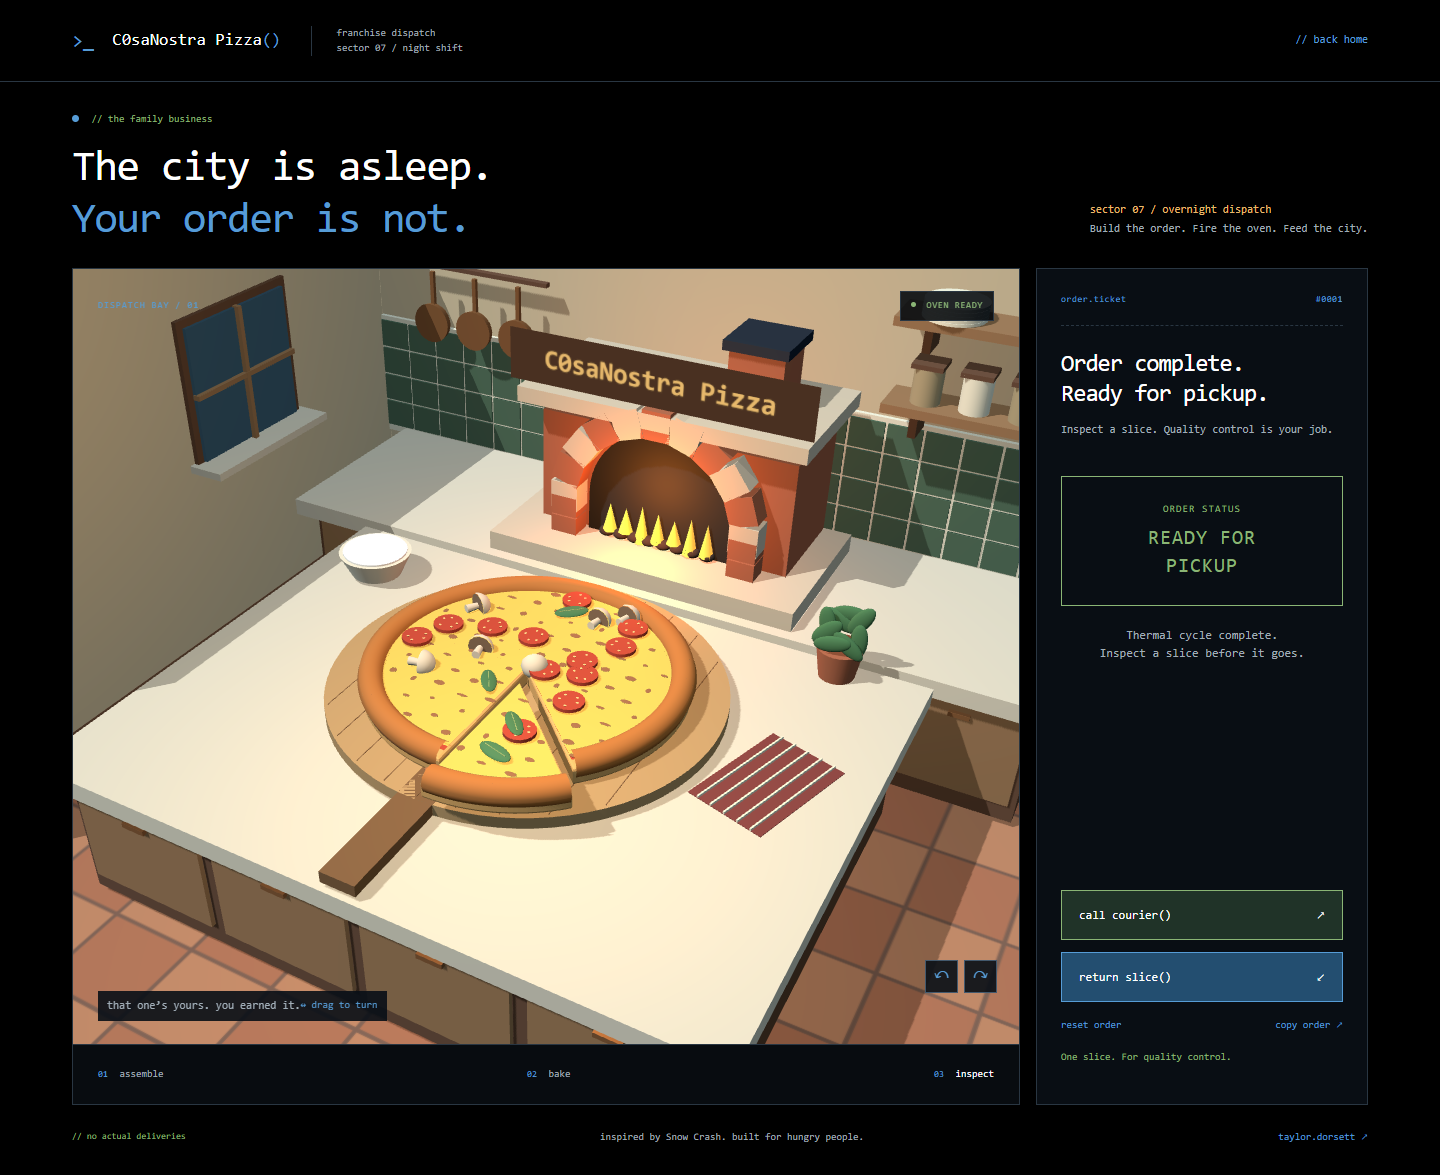
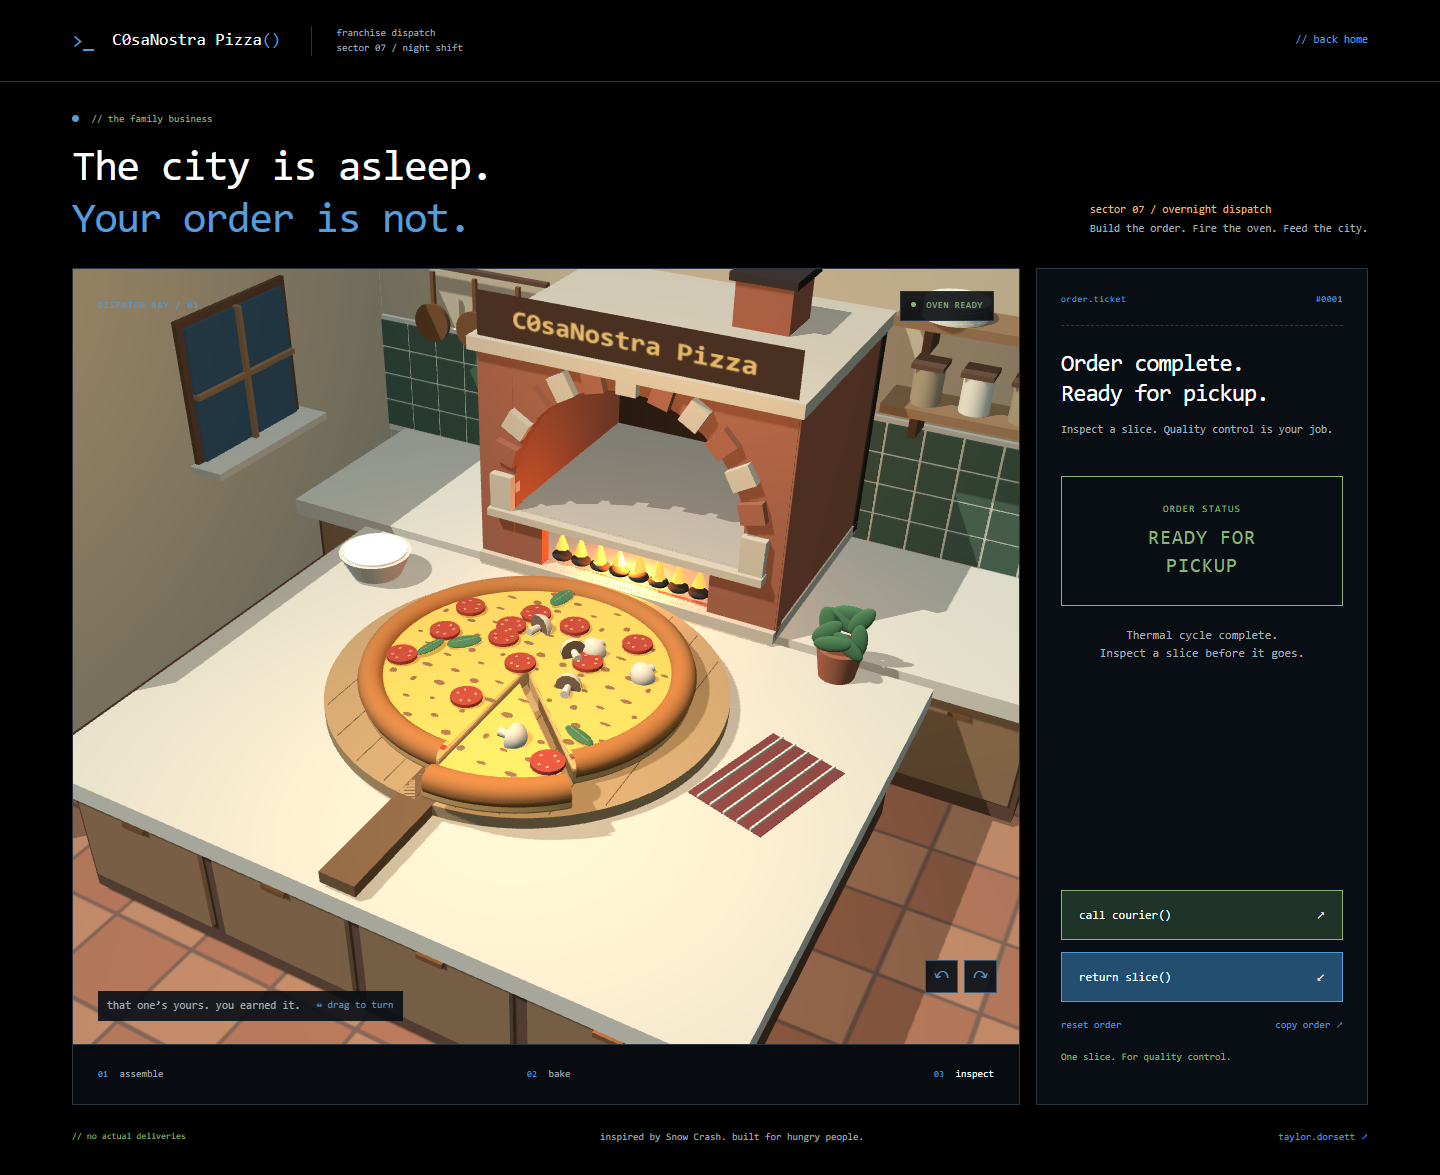
keep the pizza above the fire

Changed region(s): [[0.25, 0.2145, 0.6875, 0.674], [0.25, 0.8272, 0.2812, 0.8885]]

diff --git a/kitchen.js b/kitchen.js
@@ -1,6 +1,8 @@
 import * as THREE from './vendor/three.module.js';
 import { createGeometry } from './geometry.js';
 import { createKitchenRoom } from './kitchen-room.js';
+import { createPizzaOven } from './pizza-oven.js';
+import { ovenLayout } from './oven-motion.js';
 export function createKitchen(scene) {
   const root = new THREE.Group();
   scene.add(root);
@@ -27,13 +29,8 @@ export function createKitchen(scene) {
     sausage: material('#815335'),
     chicken: material('#e4be83'),
     brick: material('#a85e3d'),
-    grout: material('#cfb997'),
-    oven: material('#17222d'),
-    black: material('#201f19'),
-    coal: material('#382a21'),
     char: material('#96603a'),
     cream: material('#e9d8b4'),
-    metal: material('#79796b', { metalness: 0.3 }),
     towel: material('#7d3730')
   };
   const rimLight = new THREE.PointLight('#569cd6', 35, 16, 2);
@@ -41,68 +38,7 @@ export function createKitchen(scene) {
   scene.add(rimLight);
   rimLight.visible = false;
 
-  // The brick oven is made from individual blocks around an arched opening.
-  const oven = new THREE.Group();
-  oven.position.set(0, 0, -4.5);
-  root.add(oven);
-  box(5, 0.3, 2.65, mats.grout, oven, 0, -0.1, 0);
-  box(4.1, 2, 1.7, mats.brick, oven, 0, 0.85, -0.45);
-  const arch = new THREE.Shape();
-  arch.moveTo(-1.2, 0);
-  arch.lineTo(1.2, 0);
-  arch.lineTo(1.2, 0.65);
-  arch.absarc(0, 0.65, 1.2, 0, Math.PI, false);
-  arch.lineTo(-1.2, 0);
-  const dark = mesh(new THREE.ShapeGeometry(arch), mats.black, oven);
-  dark.position.set(0, 0.03, 0.46);
-  for (let i = 0; i < 11; i++) {
-    const a = (i / 10) * Math.PI;
-    const b = box(
-      0.45,
-      0.45,
-      0.35,
-      i % 2 ? mats.brick : mats.grout,
-      oven,
-      Math.cos(a) * 1.47,
-      0.68 + Math.sin(a) * 1.47,
-      0.62
-    );
-    b.rotation.z = a;
-  }
-  for (const x of [-1.47, 1.47])
-    for (let j = 0; j < 2; j++) box(0.43, 0.32, 0.36, mats.brick, oven, x, 0.17 + j * 0.34, 0.62);
-  box(4.55, 0.24, 2.3, mats.grout, oven, 0, 2.2, -0.35);
-  box(0.85, 0.85, 0.8, mats.brick, oven, 1.05, 2.7, -0.65);
-  box(1, 0.15, 1, mats.oven, oven, 1.05, 3.16, -0.65);
-  const signCanvas = document.createElement('canvas');
-  signCanvas.width = 768;
-  signCanvas.height = 128;
-  const signContext = signCanvas.getContext('2d');
-  signContext.fillStyle = '#493021';
-  signContext.fillRect(0, 0, 768, 128);
-  signContext.fillStyle = '#e8b96c';
-  signContext.font = 'bold 66px monospace';
-  signContext.textAlign = 'center';
-  signContext.fillText('C0saNostra Pizza', 384, 85);
-  const signTexture = new THREE.CanvasTexture(signCanvas);
-  signTexture.colorSpace = THREE.SRGBColorSpace;
-  const shopSign = mesh(
-    new THREE.PlaneGeometry(4.7, 0.78),
-    new THREE.MeshBasicMaterial({ map: signTexture }),
-    oven
-  );
-  shopSign.position.set(0, 2.85, 0.85);
-  for (let i = 0; i < 8; i++) ball(-0.85 + i * 0.24, 0.12, 0.51, 0.13, 0.08, 0.12, mats.coal, oven);
-  const flames = [];
-  for (let i = 0; i < 7; i++) {
-    const m = mesh(
-      new THREE.ConeGeometry(0.12, 0.62, 7),
-      material('#ffb84a', { emissive: '#ff7221', emissiveIntensity: 2 }),
-      oven
-    );
-    m.position.set(-0.8 + i * 0.27, 0.38, 0.52);
-    flames.push(m);
-  }
+  const { flames } = createPizzaOven(root);
   // Flour bowl, basil pot and a folded tea towel.
   const bowl = mesh(new THREE.CylinderGeometry(0.55, 0.38, 0.36, 32), mats.cream);
   bowl.position.set(-3.6, -0.03, -1.65);
@@ -133,7 +69,11 @@ export function createKitchen(scene) {
 
   const carriage = new THREE.Group();
   root.add(carriage);
-  const peel = mesh(new THREE.CylinderGeometry(2.65, 2.65, 0.16, 80), mats.wood, carriage);
+  const peel = mesh(
+    new THREE.CylinderGeometry(ovenLayout.peelRadius, ovenLayout.peelRadius, 0.16, 80),
+    mats.wood,
+    carriage
+  );
   peel.position.y = -0.1;
   box(0.48, 0.16, 2.1, mats.edge, carriage, 0, -0.1, 3.1);
   for (let i = 0; i < 9; i++) {

diff --git a/pizza-oven.js b/pizza-oven.js
@@ -1,0 +1,100 @@
+import * as THREE from './vendor/three.module.js';
+import { createGeometry } from './geometry.js';
+import { ovenLayout } from './oven-motion.js';
+
+export function createPizzaOven(parent) {
+  const oven = new THREE.Group();
+  oven.position.z = ovenLayout.centerZ;
+  parent.add(oven);
+  const { mesh, box, ball } = createGeometry(oven);
+  const material = (color) => new THREE.MeshStandardMaterial({ color, roughness: 0.85 });
+  const brick = material('#a85e3d'),
+    mortar = material('#cfb997'),
+    soot = material('#30251c');
+  const stone = material('#b9a58a'),
+    coal = material('#382a21');
+
+  // Separate walls leave an actual hollow chamber behind the front opening.
+  box(0.55, 3.4, 3.6, brick, oven, -2.1, 1.5, -0.1);
+  box(0.55, 3.4, 3.6, brick, oven, 2.1, 1.5, -0.1);
+  box(4.8, 3.4, 0.2, soot, oven, 0, 1.5, -1.9);
+  box(4.95, 0.2, 3.9, mortar, oven, 0, 3.3, -0.1);
+  box(4.8, 0.18, 3.8, mortar, oven, 0, -0.14, -0.1);
+
+  const face = new THREE.Shape();
+  face.moveTo(-2.4, -0.2);
+  face.lineTo(2.4, -0.2);
+  face.lineTo(2.4, 3.2);
+  face.lineTo(-2.4, 3.2);
+  face.closePath();
+  const opening = new THREE.Path();
+  opening.moveTo(-1.8, 0.81);
+  opening.lineTo(1.8, 0.81);
+  opening.lineTo(1.8, 1.2);
+  opening.absarc(0, 1.2, ovenLayout.openingHalfWidth, 0, Math.PI, false);
+  opening.lineTo(-1.8, 0.81);
+  const firebox = new THREE.Path();
+  firebox.moveTo(-1.35, -0.05);
+  firebox.lineTo(1.35, -0.05);
+  firebox.lineTo(1.35, 0.65);
+  firebox.lineTo(-1.35, 0.65);
+  firebox.closePath();
+  face.holes.push(opening, firebox);
+  const facade = mesh(new THREE.ExtrudeGeometry(face, { depth: 0.2, bevelEnabled: false }), brick);
+  facade.position.z = 1.5;
+
+  for (let i = 0; i < 13; i++) {
+    const angle = (i / 12) * Math.PI;
+    const archBrick = box(
+      0.36,
+      0.3,
+      0.27,
+      i % 2 ? brick : mortar,
+      oven,
+      Math.cos(angle) * 1.98,
+      1.2 + Math.sin(angle) * 1.98,
+      1.7
+    );
+    archBrick.rotation.z = angle;
+  }
+  for (const x of [-1.98, 1.98]) box(0.35, 0.42, 0.27, mortar, oven, x, 1, 1.7);
+  box(4.1, 0.16, 3.7, stone, oven, 0, ovenLayout.deckTop - 0.08, -0.1);
+  box(4.35, 0.12, 0.35, mortar, oven, 0, ovenLayout.deckTop - 0.06, 1.73);
+
+  // Fire stays in its own lower chamber, below the continuous baking stone.
+  const flames = [];
+  const flameGeometry = new THREE.ConeGeometry(0.11, 0.44, 7);
+  const flameMaterial = new THREE.MeshStandardMaterial({
+    color: '#ffc268',
+    emissive: '#ff7c24',
+    emissiveIntensity: 2
+  });
+  for (let i = 0; i < 8; i++) {
+    const x = -1.12 + i * 0.32;
+    ball(x, 0.08, 1.48, 0.16, 0.08, 0.13, coal, oven);
+    const flame = mesh(flameGeometry, flameMaterial);
+    flame.position.set(x, ovenLayout.flameTop - 0.22, 1.48);
+    flames.push(flame);
+  }
+  box(0.85, 0.7, 0.85, brick, oven, 1.05, 3.75, -0.7);
+  box(1, 0.12, 1, soot, oven, 1.05, 4.13, -0.7);
+
+  const canvas = document.createElement('canvas');
+  canvas.width = 768;
+  canvas.height = 128;
+  const ctx = canvas.getContext('2d');
+  ctx.fillStyle = '#493021';
+  ctx.fillRect(0, 0, 768, 128);
+  ctx.fillStyle = '#e8b96c';
+  ctx.font = 'bold 66px monospace';
+  ctx.textAlign = 'center';
+  ctx.fillText('C0saNostra Pizza', 384, 85);
+  const texture = new THREE.CanvasTexture(canvas);
+  texture.colorSpace = THREE.SRGBColorSpace;
+  const sign = mesh(
+    new THREE.PlaneGeometry(4.7, 0.65),
+    new THREE.MeshBasicMaterial({ map: texture })
+  );
+  sign.position.set(0, 3.72, 1.75);
+  return { flames };
+}

diff --git a/browser-check.js b/browser-check.js
@@ -201,6 +201,29 @@ try {
   );
   await ingredientsPage.close();
 
+  for (const [name, width, height] of [
+    ['desktop', 1440, 1300],
+    ['mobile', 390, 1700]
+  ]) {
+    const ovenPage = await checkedPage({ viewport: { width, height }, reducedMotion: 'reduce' });
+    await ovenPage.clock.install({ time: new Date('2026-01-01T00:00:00Z') });
+    await ovenPage.clock.pauseAt(new Date('2026-01-01T00:00:01Z'));
+    await ovenPage.goto(baseUrl);
+    await ovenPage.locator('#special').click();
+    await ovenPage.locator('#primary').click();
+    await ovenPage.clock.fastForward(750);
+    await ovenPage.screenshot({ path: `screenshots/oven-${name}-lift.png` });
+    await ovenPage.clock.fastForward(3250);
+    assert.equal(await ovenPage.locator('body').getAttribute('data-mode'), 'baking');
+    await ovenPage.screenshot({ path: `screenshots/oven-${name}-baking.png` });
+    await ovenPage.clock.fastForward(2700);
+    await ovenPage.screenshot({ path: `screenshots/oven-${name}-out.png` });
+    await ovenPage.clock.fastForward(1400);
+    assert.equal(await ovenPage.locator('body').getAttribute('data-mode'), 'baked');
+    await ovenPage.screenshot({ path: `screenshots/oven-${name}-done.png` });
+    await ovenPage.close();
+  }
+
   // A recipe opened mid order must render exactly like a fresh recipe.
   // Comparing the canvas catches stale rotation, slice offsets and oven scale.
   const recipePage = await checkedPage({

diff --git a/oven-motion.test.js b/oven-motion.test.js
@@ -1,0 +1,23 @@
+import test from 'node:test';
+import assert from 'node:assert/strict';
+import { bakingPose, ovenLayout } from './oven-motion.js';
+
+test('the peel clears the fire and stone throughout entry and exit', () => {
+  for (let i = 0; i <= 1000; i++) {
+    const pose = bakingPose(i / 1000);
+    const radius = ovenLayout.peelRadius * pose.scale;
+    if (pose.z - radius < ovenLayout.mouthZ) {
+      const bottom = pose.y + ovenLayout.peelBottom * pose.scale;
+      assert.ok(bottom >= ovenLayout.deckTop, 'lift before crossing the oven mouth');
+      assert.ok(bottom > ovenLayout.flameTop, 'keep the fire below the pizza');
+      assert.ok(radius < ovenLayout.openingHalfWidth, 'fit through the opening');
+    }
+  }
+});
+
+test('baking rests inside the oven and returns to the same counter position', () => {
+  assert.deepEqual(bakingPose(0), { y: 0, z: 0, scale: 1 });
+  assert.deepEqual(bakingPose(1), { y: 0, z: 0, scale: 1 });
+  assert.equal(bakingPose(0.5).z, ovenLayout.centerZ);
+  assert.equal(bakingPose(0.5).y, ovenLayout.bakingHeight);
+});

diff --git a/order.js b/order.js
@@ -1,3 +1,4 @@
+import { bakingPose } from './oven-motion.js';
 import { createCourier } from './courier.js';
 import { maxToppings, decodeRecipe, randomSpot } from './recipe.js';
 import { updateOrderView, updateCourierPhase, say } from './order-view.js';
@@ -235,11 +236,9 @@ export function startOrder({
     if (mode === 'baking') {
       const t = Math.min((now - bakingStarted) / 1000 / bakeSeconds, 1);
       $('progress').value = t;
-      const travel = t < 0.16 ? t / 0.16 : t > 0.82 ? (1 - t) / 0.18 : 1;
-      const ease = travel * travel * (3 - 2 * travel);
-      carriage.position.z = -2.8 * ease;
-      carriage.position.y = 0.02 * ease;
-      carriage.scale.setScalar(1 - 0.28 * ease);
+      const pose = bakingPose(t);
+      carriage.position.set(0, pose.y, pose.z);
+      carriage.scale.setScalar(pose.scale);
       setCooked(Math.min(t * 1.3, 1));
       fireLight.intensity = 18;
       if (t === 1) {

diff --git a/oven-motion.js b/oven-motion.js
@@ -1,0 +1,29 @@
+// These dimensions are shared by the oven model and its animation so the peel
+// clears the opening and rests above the stone instead of passing through fire.
+export const ovenLayout = {
+  centerZ: -4.5,
+  mouthZ: -2.8,
+  openingHalfWidth: 1.8,
+  deckTop: 0.81,
+  flameTop: 0.57,
+  peelRadius: 2.65,
+  peelBottom: -0.18,
+  bakingHeight: 0.93,
+  bakingScale: 0.62
+};
+
+const smooth = (value) => {
+  const t = Math.max(0, Math.min(1, value));
+  return t * t * (3 - 2 * t);
+};
+
+export function bakingPose(progress) {
+  const lift = progress < 0.88 ? smooth(progress / 0.12) : 1 - smooth((progress - 0.88) / 0.12);
+  const slide =
+    progress < 0.76 ? smooth((progress - 0.12) / 0.15) : 1 - smooth((progress - 0.76) / 0.12);
+  return {
+    y: ovenLayout.bakingHeight * lift,
+    z: slide === 0 ? 0 : ovenLayout.centerZ * slide,
+    scale: 1 - (1 - ovenLayout.bakingScale) * lift
+  };
+}

diff --git a/scene.js b/scene.js
@@ -33,7 +33,7 @@ export function createScene(host) {
   sun.shadow.normalBias = 0.025;
   scene.add(sun);
   const fireLight = new THREE.PointLight('#ff8c31', 13, 7, 2);
-  fireLight.position.set(0, 1, -3.2);
+  fireLight.position.set(0, 0.3, -3);
   scene.add(fireLight);
 
   let deliveringNow = false;

diff --git a/build.js b/build.js
@@ -12,6 +12,8 @@ for (const file of [
   'geometry.js',
   'kitchen.js',
   'kitchen-room.js',
+  'pizza-oven.js',
+  'oven-motion.js',
   'order.js',
   'order-view.js',
   'pizza-input.js',

diff --git a/dispatch.css b/dispatch.css
@@ -92,6 +92,7 @@ h2 {
   background: #080e16e6;
   padding: 7px 9px;
   width: fit-content;
+  gap: 16px;
 }
 .drag-hint {
   color: var(--red);

diff --git a/README.md b/README.md
@@ -70,6 +70,8 @@ the normal order path is `prep → baking → baked → pickup → dispatched`. 
 
 opening a recipe replaces the current order and resets its rotation, slice and oven position. a broken link leaves the current order alone. browser checks compare the resulting pizza with a fresh recipe after interrupting baking, inspection and pickup.
 
+the oven has a separate firebox below its stone deck. the peel lifts before entering, stays above the fire, then comes back out before lowering onto the counter. `oven-motion.js` shares its dimensions with `pizza-oven.js`. clearance checks cover the whole entry and exit path.
+
 the order controller owns state. scene files own geometry. the view reads state and updates the page. keep those boundaries when adding things.
 
 toppings share their geometry and materials for the life of the page. clearing a topping removes its meshes without disposing shared resources. a new topping type should reuse resources too. the browser test counts gpu buffers across repeated orders to catch leaks.
